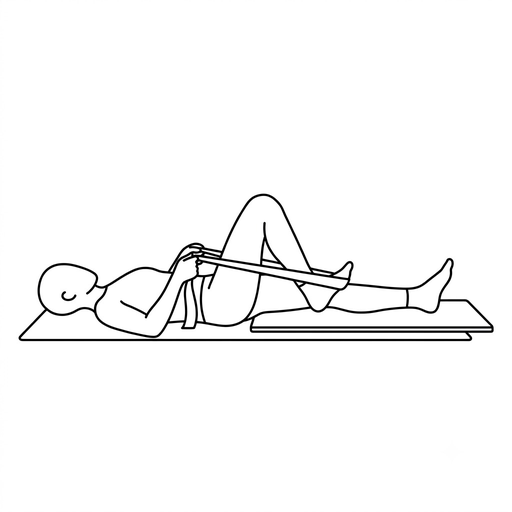
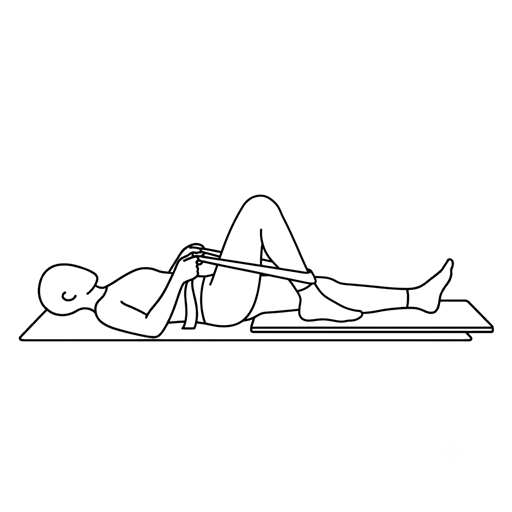
Add 10 exercises (Copenhagen plank x2, adductor stretch, stick AA flexion, 6 McKenzie-style spine movements); replace heel-slide image; add 'stick' to equipment vocabulary

Changed region(s): [[0.0312, 0.375, 0.9688, 0.6875], [0.0625, 0.5312, 0.25, 0.625], [0.0938, 0.5, 0.1562, 0.5312]]

diff --git a/admin-server.js b/admin-server.js
@@ -25,7 +25,7 @@ const PORT = 8765;
 
 // Closed vocabularies — the whole point is that these can't drift.
 const REGIONS = ['shoulder', 'cervical', 'thoracic', 'lumbar', 'hip', 'knee', 'ankle', 'wrist', 'core'];
-const EQUIPMENT = ['none', 'resistance band', 'chair', 'wall', 'small ball', 'dumbbell'];
+const EQUIPMENT = ['none', 'resistance band', 'chair', 'wall', 'small ball', 'dumbbell', 'stick'];
 
 /* ---------- data helpers ---------- */
 

diff --git a/admin.html b/admin.html
@@ -325,7 +325,7 @@ const REGION_LABELS = {
 const EQUIPMENT_LABELS = {
   "none":"ללא ציוד", "resistance band":"גומיית התנגדות",
   "chair":"כיסא / משטח מוגבה", "wall":"קיר", "small ball":"כדור קטן",
-  "dumbbell":"משקולת יד"
+  "dumbbell":"משקולת יד", "stick":"מקל"
 };
 
 let EXERCISES = [];
